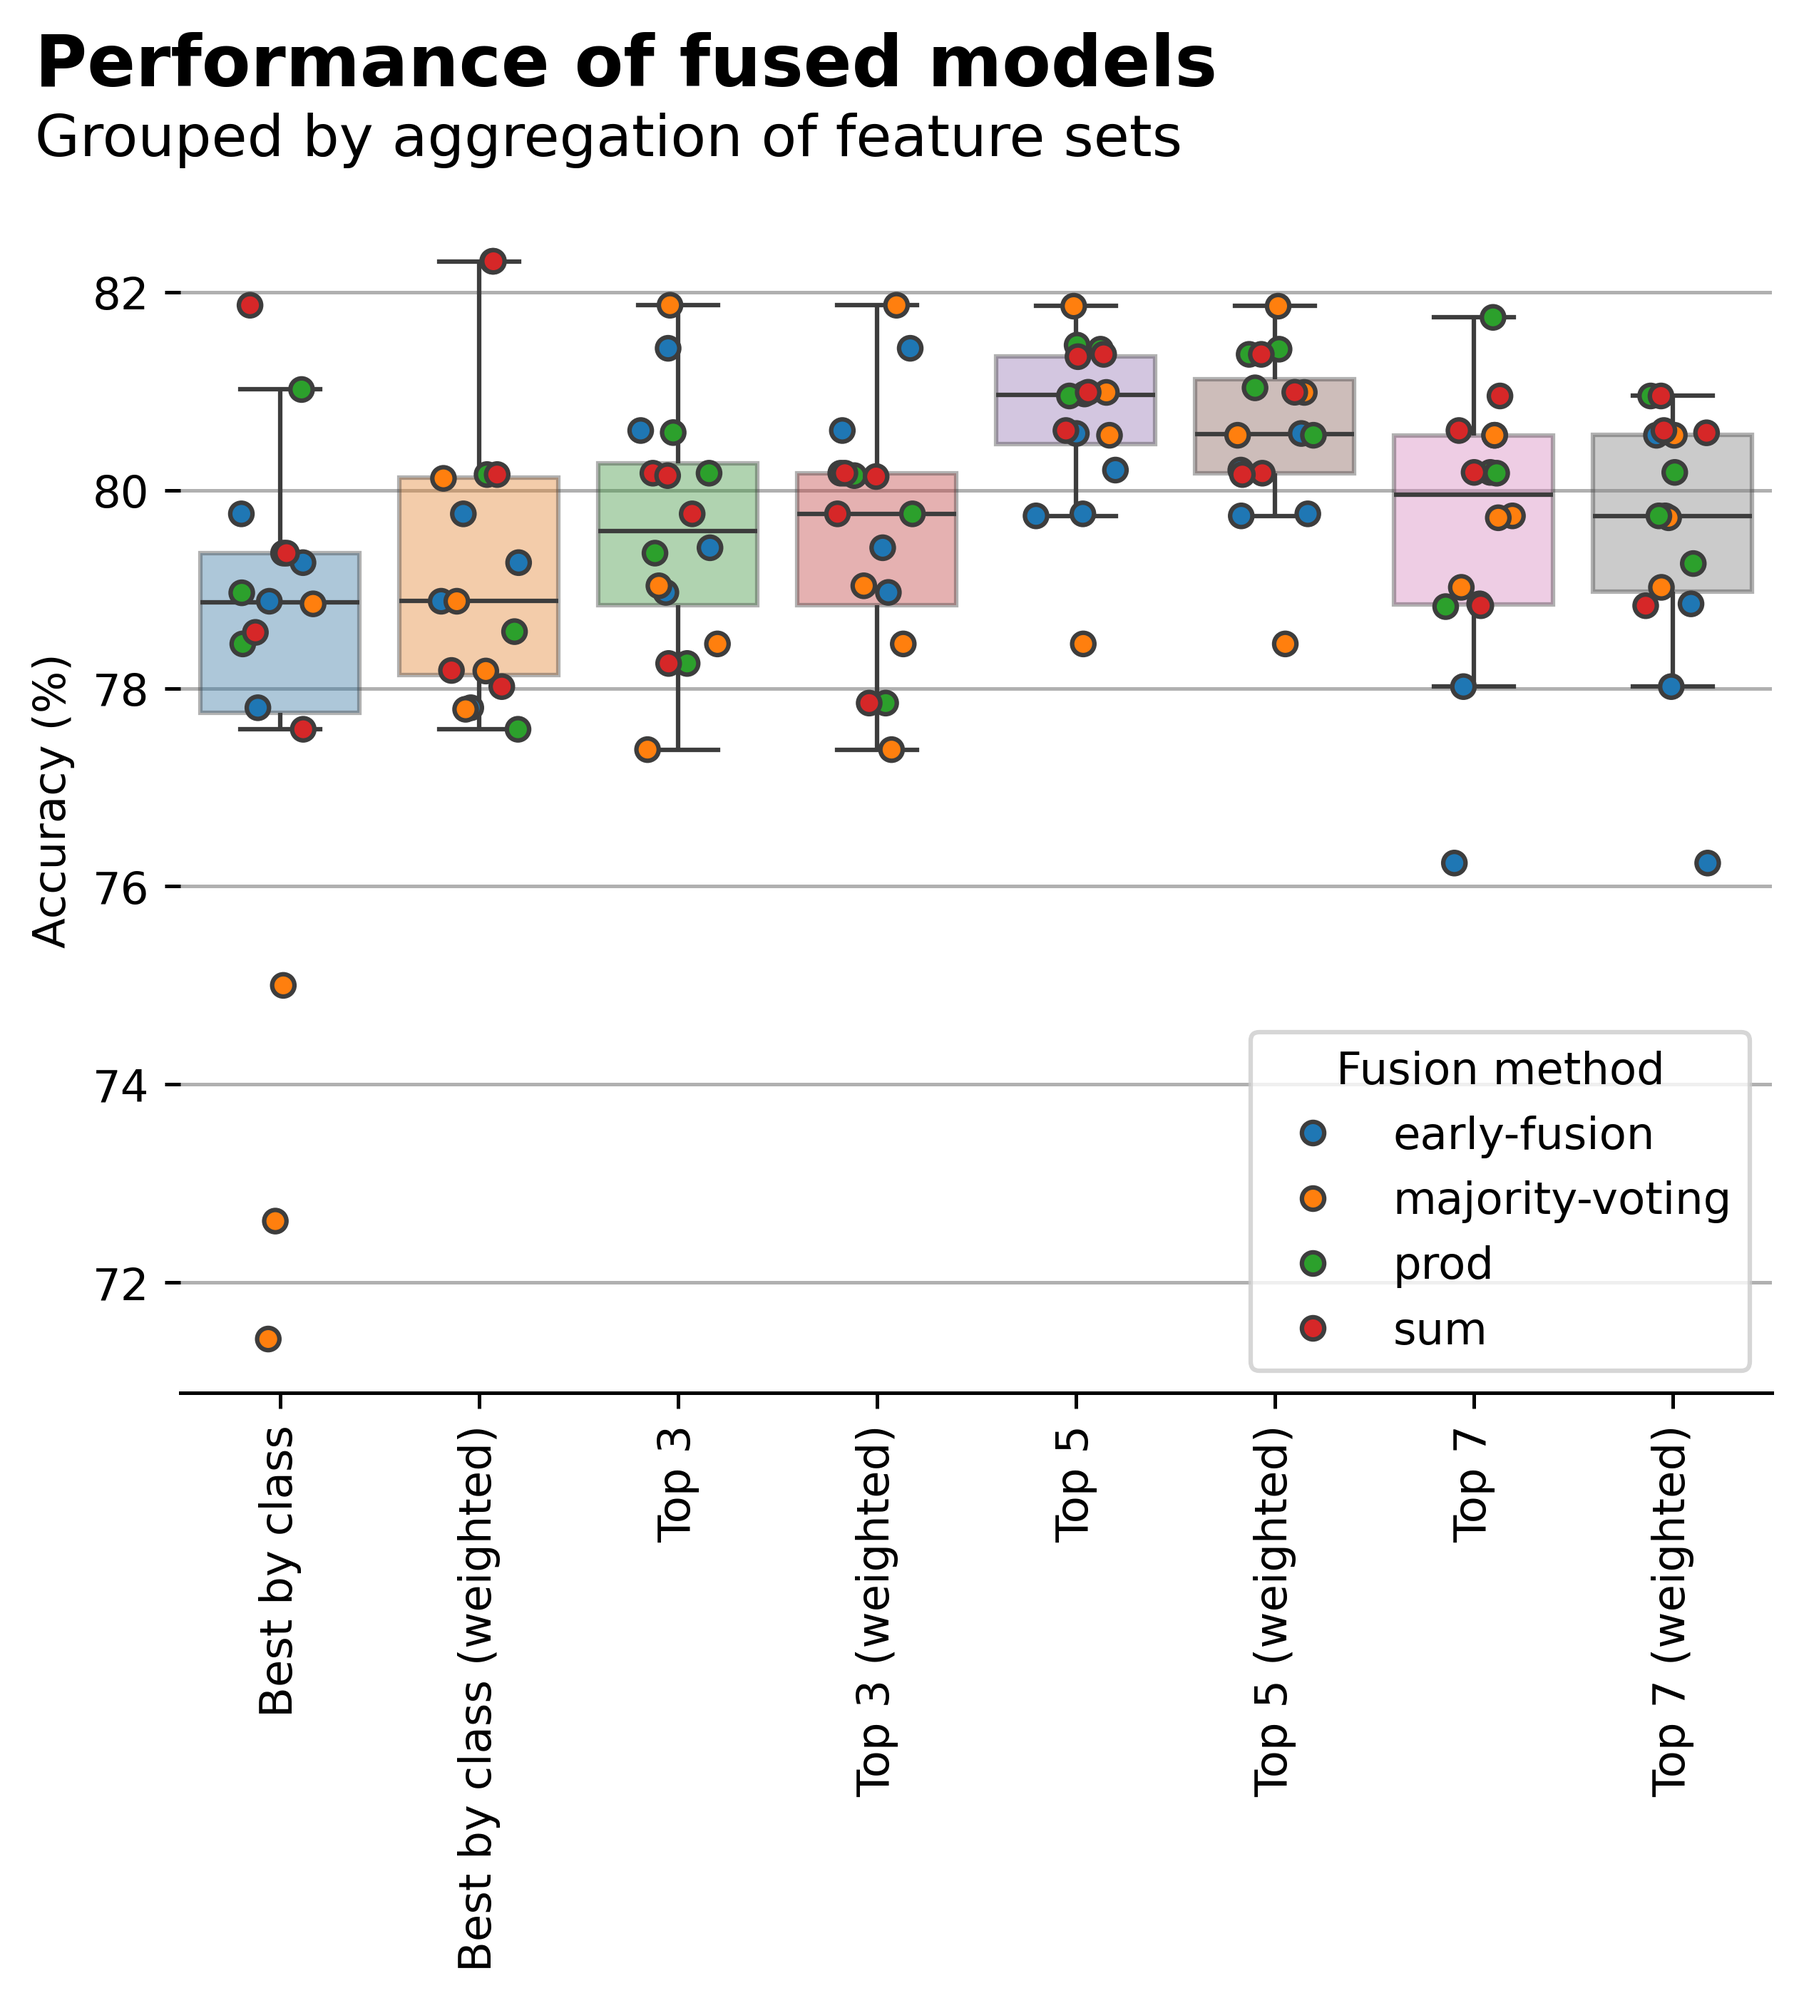
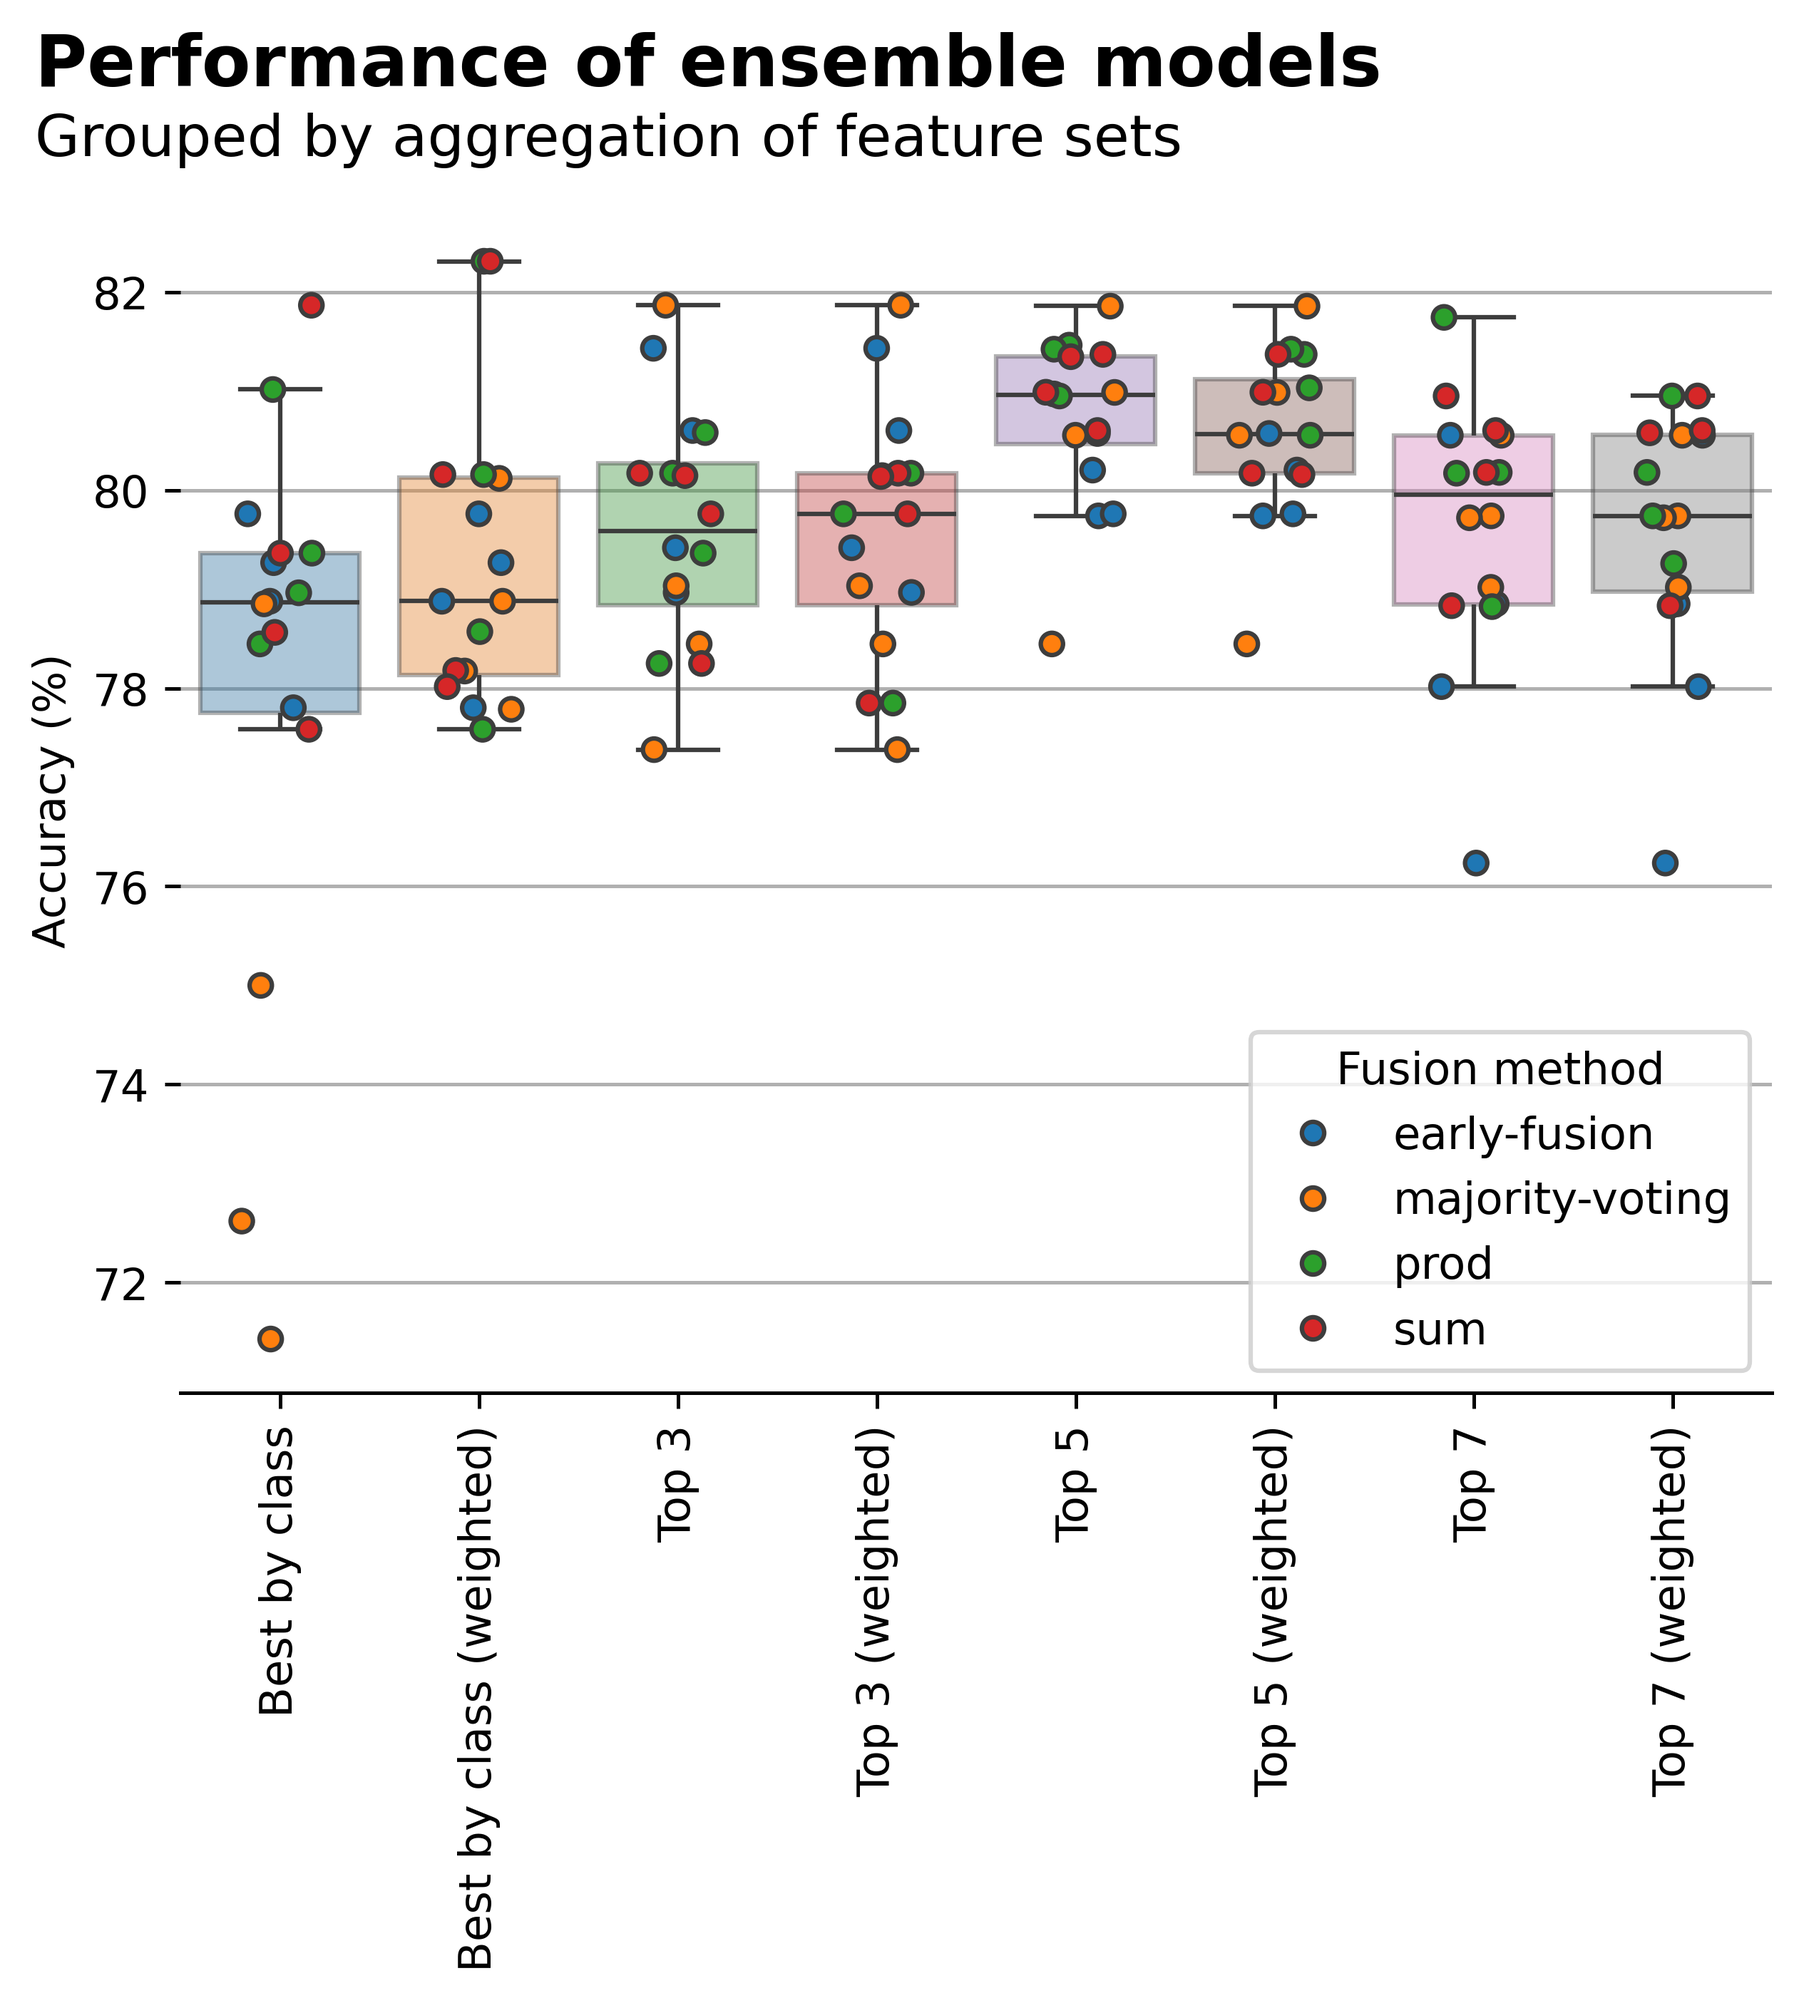
Changed charts title

diff --git a/src/utilities/generate_charts.py b/src/utilities/generate_charts.py
@@ -24,7 +24,7 @@ sns.stripplot(data=df_combined, y='Acc.', x='Descriptor',
               hue='Fusion method', jitter=0.2, edgecolor='auto', 
               linewidth=1, ax=ax)
 
-title = 'Performance of fused models'
+title = 'Performance of ensemble models'
 subtitle = 'Grouped by aggregation of feature sets' 
 set_title_and_subtitle(fig=fig, title=title, subtitle=subtitle,
                        alignment='left', h_offset=25)
@@ -53,7 +53,7 @@ sns.stripplot(data=df_combined, y='Acc.', x='Fusion method',
               hue='Descriptor', jitter=0.2, edgecolor='auto', 
               linewidth=1, ax=ax)
 
-title = 'Performance of fused models'
+title = 'Performance of ensemble models'
 subtitle = 'Grouped by fusion method' 
 set_title_and_subtitle(fig=fig, title=title, subtitle=subtitle,
                        alignment='left', h_offset=25)
